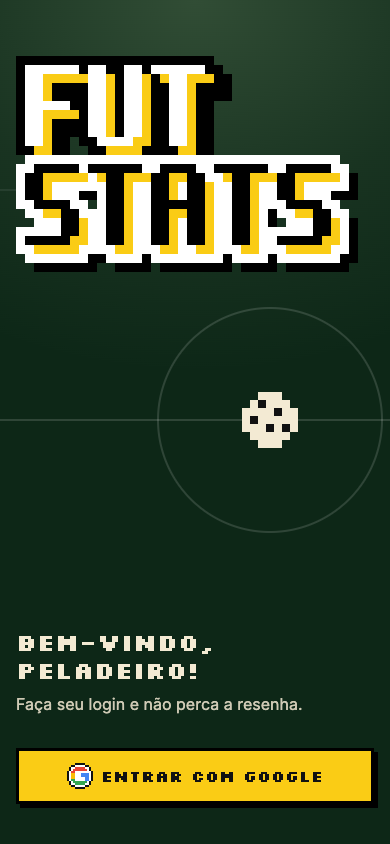
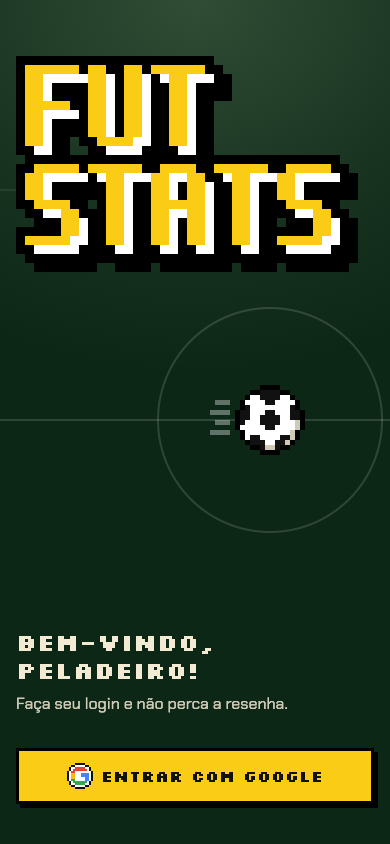
feat(web): bola pixel em movimento na capa, entrando pela esquerda

Changed region(s): [[0.0308, 0.0616, 0.8923, 0.3389], [0.0615, 0.8318, 0.7692, 0.8626], [0.5231, 0.4313, 0.8, 0.5545]]

diff --git a/apps/web/src/pages/entrar-e-grupo/chalk.tsx b/apps/web/src/pages/entrar-e-grupo/chalk.tsx
@@ -1,31 +1,59 @@
 import { cn } from '../../lib/cn';
 
-/** A bola pixel da folha (BALL em docs/design/folha/build.py, a mesma do ícone do app). */
-const BALL = ['..WWW..', '.WKWWW.', 'WWWWKWW', 'WKWWWWW', 'WWWKWKW', '.WWWWW.', '..WWW..'];
+/**
+ * Bola pixel em movimento (14x14 e rastro de 5 colunas à esquerda): contorno preto, pentágono no
+ * centro, gomos nas bordas e sombra creme embaixo à direita. Escolhida pelo dono para a capa.
+ */
+const BALL = [
+  '..........KKKK.....',
+  '........KKPPPPKK...',
+  '.......KWWPPPPWWK..',
+  '.TTT..KWWWWPPWWWWK.',
+  '......KPWWWWWWWWPK.',
+  'TTTT.KPPWWWPPWWWPPK',
+  '.....KPPWWPPPPWWPPK',
+  '.TTT.KPWWWPPPPWWWSK',
+  '.....KWWWWWPPWWWWSK',
+  'TTTT..KWWWWWWWWWSK.',
+  '......KWPPWWWWPPSK.',
+  '.......KPPPWWPPSK..',
+  '........KKPSSPKK...',
+  '..........KKKK.....',
+];
+const BALL_WIDTH = BALL[0]!.length;
+/** O centro da bola (sem o rastro) fica no ponto central do campo. */
+const BALL_CENTER_X = 5 + 7;
 
-function ballPath(color: 'W' | 'K'): string {
+const BALL_LAYERS = [
+  { char: 'K', fill: '#000000' },
+  { char: 'P', fill: '#111111' },
+  { char: 'W', fill: '#ffffff' },
+  { char: 'S', fill: 'var(--color-text-muted)' },
+  { char: 'T', fill: 'rgb(255 255 255 / 35%)' },
+] as const;
+
+function ballPath(char: string): string {
   return BALL.flatMap((line, y) =>
-    [...line].map((c, x) => (c === color ? `M${x} ${y}h1v1h-1z` : '')),
+    [...line].map((c, x) => (c === char ? `M${x} ${y}h1v1h-1z` : '')),
   ).join('');
 }
 
-const BALL_WHITE = ballPath('W');
-const BALL_BLACK = ballPath('K');
+const BALL_PATHS = BALL_LAYERS.map(({ char, fill }) => ({ d: ballPath(char), fill }));
 
 /** Bola pixel parada no ponto: `x`/`y` é o centro, `scale` o tamanho do pixel (inteiro, para não borrar). */
 function PixelBall({ x, y, scale }: { x: number; y: number; scale: number }) {
-  const size = BALL.length * scale;
   return (
     <svg
-      x={x - size / 2}
-      y={y - size / 2}
-      width={size}
-      height={size}
-      viewBox={`0 0 ${BALL.length} ${BALL.length}`}
+      x={x - BALL_CENTER_X * scale}
+      y={y - (BALL.length / 2) * scale}
+      width={BALL_WIDTH * scale}
+      height={BALL.length * scale}
+      viewBox={`0 0 ${BALL_WIDTH} ${BALL.length}`}
       shapeRendering="crispEdges"
     >
-      <path d={BALL_WHITE} className="fill-text" />
-      <path d={BALL_BLACK} fill="#111111" />
+      {BALL_PATHS.map(({ d, fill }) => (
+        <path key={fill} d={d} fill={fill} />
+      ))}
     </svg>
   );
 }
@@ -36,11 +64,11 @@ function PixelBall({ x, y, scale }: { x: number; y: number; scale: number }) {
  */
 export function ChalkPitch({
   className,
-  ballDrop = false,
+  ballIn = false,
 }: {
   className?: string;
-  /** A bola cai e quica até o ponto central (capa); com "reduzir movimento", já está lá. */
-  ballDrop?: boolean;
+  /** A bola entra correndo até o ponto central (capa); com "reduzir movimento", já está lá. */
+  ballIn?: boolean;
 }) {
   return (
     <svg
@@ -54,8 +82,8 @@ export function ChalkPitch({
       <rect x="-60" y="-40" width="170" height="110" className="stroke-highlight" />
       <line x1="-20" y1="300" x2="410" y2="300" className="stroke-chalk" />
       <circle cx="270" cy="300" r="112" className="stroke-chalk" />
-      <g className={ballDrop ? 'animate-ball-drop' : undefined}>
-        <PixelBall x={270} y={300} scale={8} />
+      <g className={ballIn ? 'animate-ball-in' : undefined}>
+        <PixelBall x={270} y={300} scale={5} />
       </g>
     </svg>
   );

diff --git a/apps/web/src/index.css b/apps/web/src/index.css
@@ -49,30 +49,21 @@
   animation: logo-drop 360ms steps(6, end) both;
 }
 
-/* Bola da capa: cai depois do logo e quica duas vezes no ponto central. */
-@keyframes ball-drop {
+/* Bola da capa: entra correndo pela esquerda (no sentido do rastro) depois do logo e freia no ponto. */
+@keyframes ball-in {
   0% {
-    transform: translateY(-360px);
+    transform: translateX(-360px);
   }
-  55% {
-    transform: translateY(0);
-  }
-  70% {
-    transform: translateY(-48px);
-  }
-  85% {
-    transform: translateY(0);
-  }
-  93% {
-    transform: translateY(-16px);
+  80% {
+    transform: translateX(10px);
   }
   100% {
-    transform: translateY(0);
+    transform: translateX(0);
   }
 }
 
-@utility animate-ball-drop {
-  animation: ball-drop 900ms steps(18, end) 450ms both;
+@utility animate-ball-in {
+  animation: ball-in 700ms steps(14, end) 450ms both;
 }
 
 /* Reduzir movimento: nada anima fora dos tokens de duração (que já vão a 0) */

diff --git a/apps/web/src/pages/sign-in.tsx b/apps/web/src/pages/sign-in.tsx
@@ -29,7 +29,7 @@ export function SignInPage() {
   return (
     <main className="relative mx-auto flex min-h-dvh max-w-content flex-col justify-between gap-10 overflow-hidden px-4 pt-14 pb-10">
       <title>Entrar · Fut Stats</title>
-      <ChalkPitch className="top-30" ballDrop />
+      <ChalkPitch className="top-30" ballIn />
       <h1 className="relative">
         <PixelLogo scale={9} />
       </h1>
